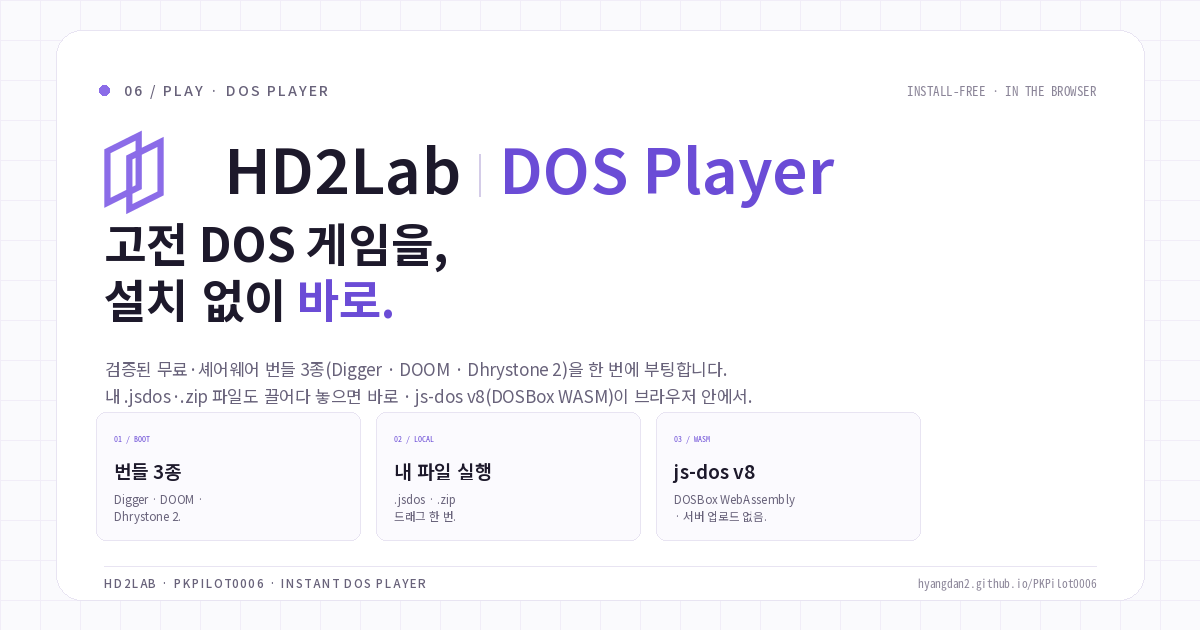
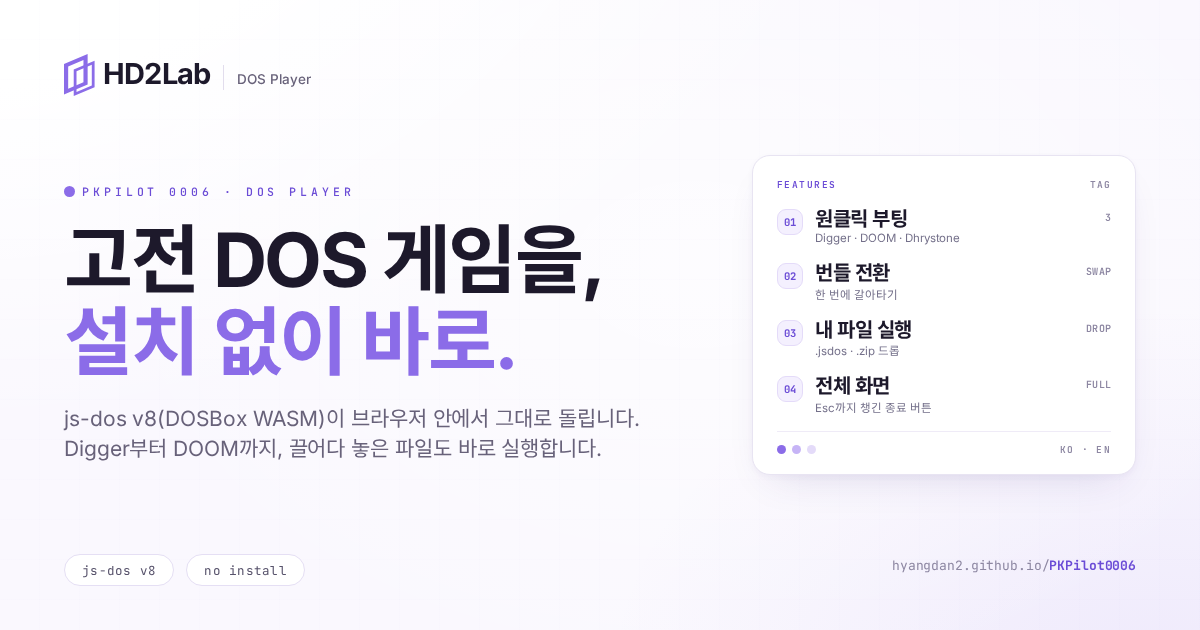
chore(og): share card in the HD2's Diary OG style (#2)
Rebuild og:image / twitter:image as the 1200x630 Diary-style card (Soft Iris wash, dual-skew mark, left title, right feature card) and bump the cache-busting query to ?v=20261121-og.

diff --git a/index.html b/index.html
@@ -28,8 +28,8 @@
   <meta property="og:title" content="HD2Lab | DOS Player (PKPilot0006)" />
   <meta property="og:description" content="고전 DOS 게임을, 설치 없이 바로. js-dos v8(DOSBox WASM)이 브라우저 안에서 그대로 돌립니다." />
   <meta property="og:url" content="https://hyangdan2.github.io/PKPilot0006/" />
-  <meta property="og:image" content="https://hyangdan2.github.io/PKPilot0006/og-image.png?v=20261116-softiris" />
-  <meta property="og:image:secure_url" content="https://hyangdan2.github.io/PKPilot0006/og-image.png?v=20261116-softiris" />
+  <meta property="og:image" content="https://hyangdan2.github.io/PKPilot0006/og-image.png?v=20261121-og" />
+  <meta property="og:image:secure_url" content="https://hyangdan2.github.io/PKPilot0006/og-image.png?v=20261121-og" />
   <meta property="og:image:type" content="image/png" />
   <meta property="og:image:width" content="1200" />
   <meta property="og:image:height" content="630" />
@@ -39,7 +39,7 @@
   <meta name="twitter:card" content="summary_large_image" />
   <meta name="twitter:title" content="HD2Lab | DOS Player (PKPilot0006)" />
   <meta name="twitter:description" content="고전 DOS 게임을, 설치 없이 바로. js-dos v8(DOSBox WASM)이 브라우저 안에서 그대로 돌립니다." />
-  <meta name="twitter:image" content="https://hyangdan2.github.io/PKPilot0006/og-image.png?v=20261116-softiris" />
+  <meta name="twitter:image" content="https://hyangdan2.github.io/PKPilot0006/og-image.png?v=20261121-og" />
   <meta name="twitter:image:alt" content="HD2Lab | DOS Player — 고전 DOS 게임을, 설치 없이 바로" />
 
   <link rel="preconnect" href="https://v8.js-dos.com" crossorigin />
